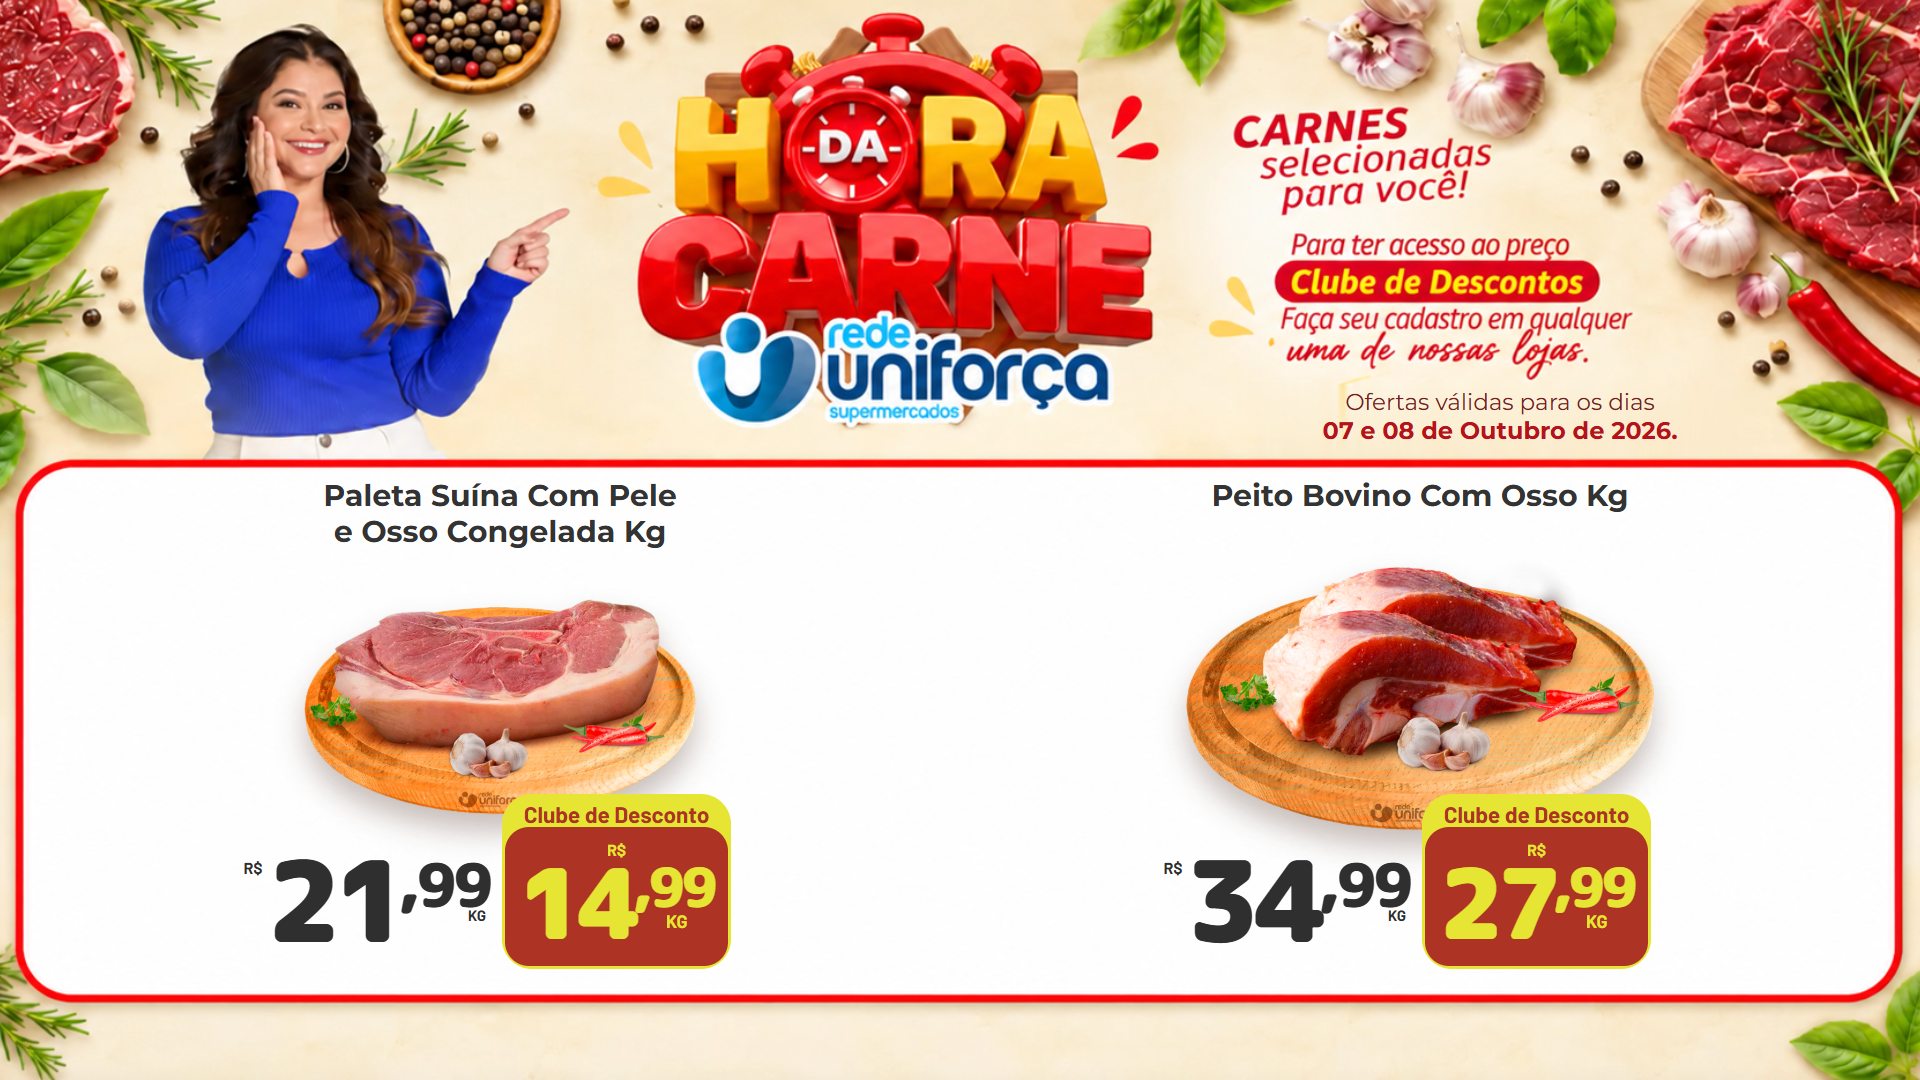
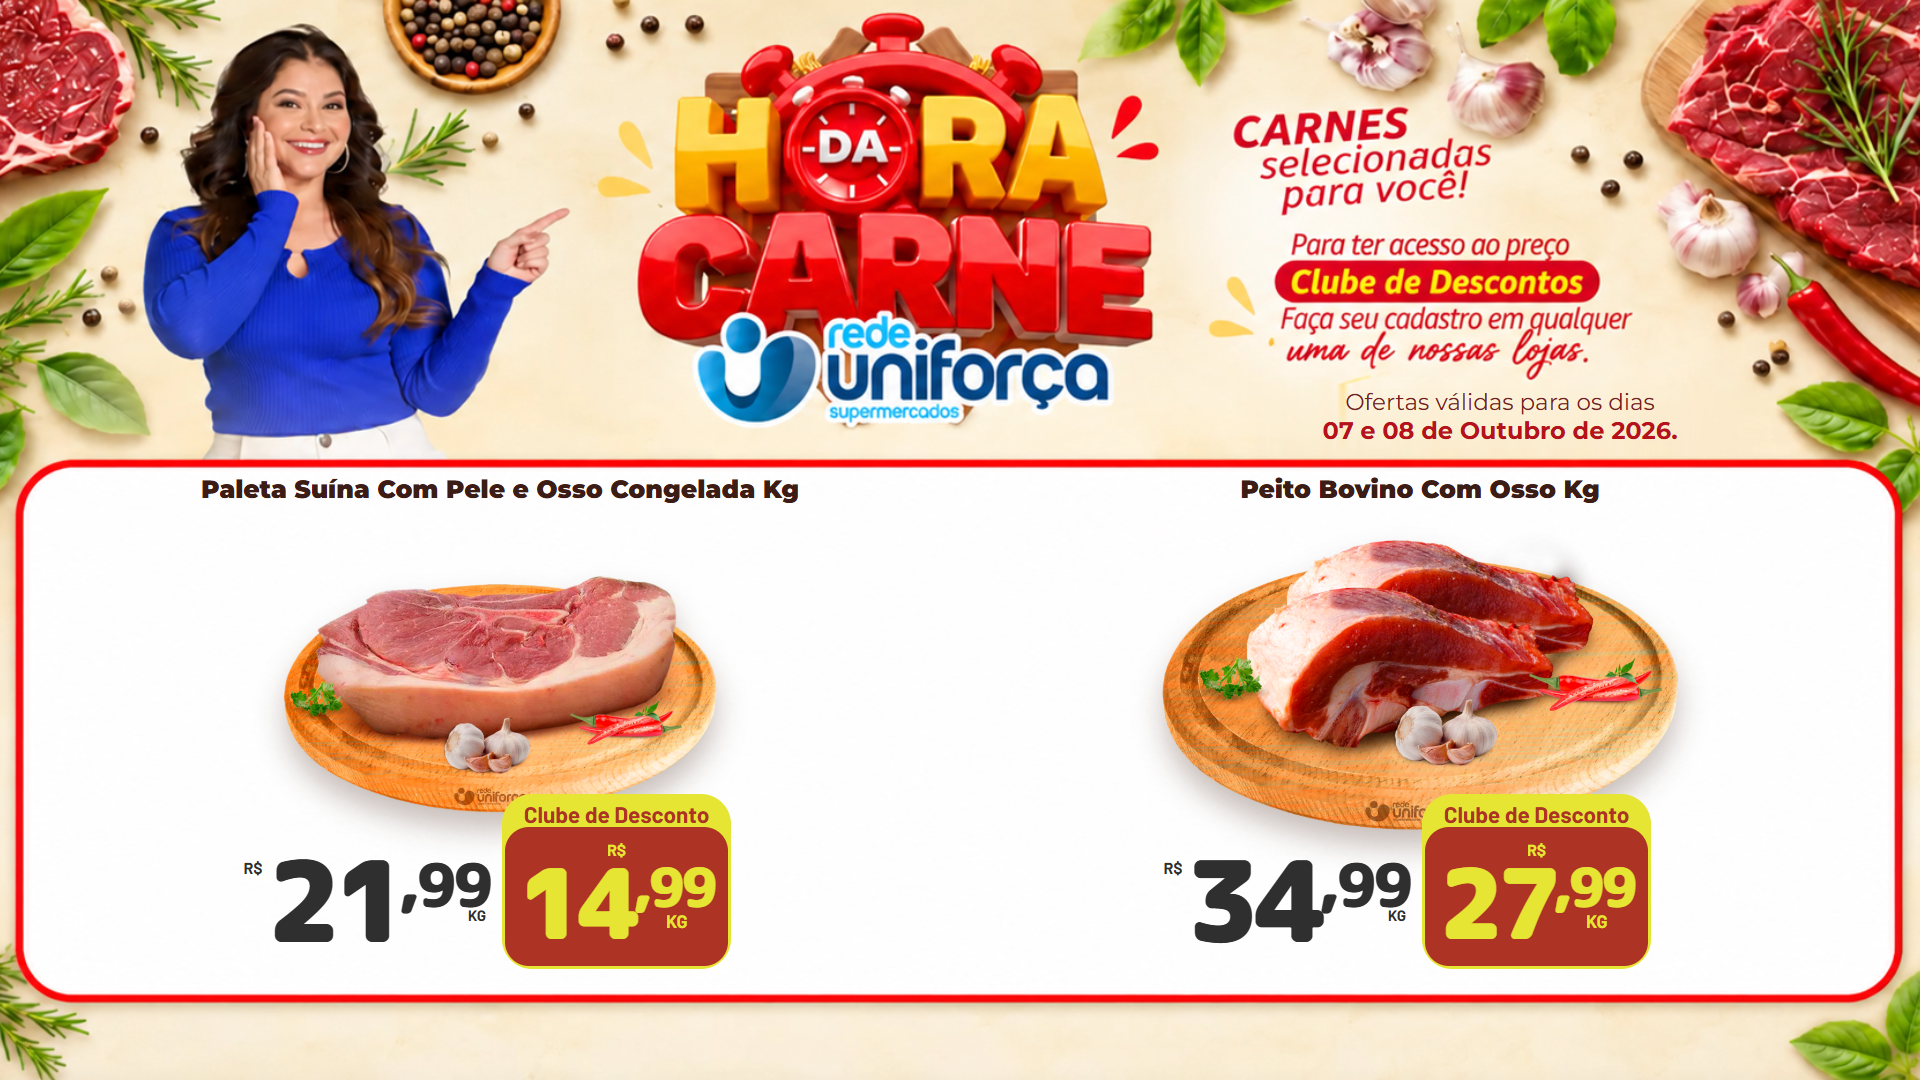
Ofertas: nome com a fonte do original, em até 2 linhas, e produto sempre do mesmo tamanho
No uniforca-hora-da-carne-cartelas:
- o nome volta à fonte e ao peso do Hora da Carne original (Montserrat 900, cor do template), em
  tamanho fixo de 25px, na largura original, com no máximo 2 linhas (cabem os 80 caracteres);
- a foto do produto volta ao tamanho e à posição originais e não desce mais com nomes longos.
O selo e o preço normal no estilo do VT de referência continuam.

Conferido num render com nomes de 24, 55, 64 e 76 caracteres: todos inteiros em até 2 linhas, sem
encostar na foto.

Changed region(s): [[0.5938, 0.4278, 0.875, 0.7639], [0.0938, 0.4278, 0.4062, 0.7639]]

diff --git a/ofertas/templates/uniforca-hora-da-carne-cartelas/index.html b/ofertas/templates/uniforca-hora-da-carne-cartelas/index.html
@@ -850,23 +850,27 @@
       }
       .nome {
         position: absolute;
-        top: 6px;
-        left: 150px;
-        right: 150px;
+        top: 4px;
+        left: 90px;
+        right: 90px;
         text-align: center;
         text-wrap: balance;
-        font-weight: 700;
-        font-size: 30px;
-        line-height: 1.2;
-        color: #333333;
+        font-weight: 900;
+        /* tamanho fixo: até 80 caracteres em no máximo 2 linhas, acima da foto */
+        font-size: 25px;
+        line-height: 1.08;
+        display: -webkit-box;
+        -webkit-box-orient: vertical;
+        -webkit-line-clamp: 2;
+        overflow: hidden;
       }
       /* tábua centralizada no produto (centro x=410); selo alinhado à borda direita da tábua */
       .foto-box {
         position: absolute;
         left: 120px;
-        top: 86px;
+        top: 58px;
         width: 580px;
-        height: 272px;
+        height: 300px;
         display: flex;
         justify-content: center;
         align-items: flex-end;
@@ -1069,8 +1073,6 @@
         const p = document.getElementById("tpl-produto").content.firstElementChild.cloneNode(true);
         const nome = p.querySelector(".nome");
         nome.textContent = campo(n, "nome");
-        // tamanho único (30px), quebrando em linhas equilibradas; nomes de 3 linhas empurram a foto para baixo
-        if (String(campo(n, "nome") || "").length > 60) Object.assign(p.querySelector(".foto-box").style, { top: "122px", height: "236px" });
         const foto = p.querySelector(".foto");
         foto.src = campo(n, "imagem");
         foto.style.width = foto.style.height = (Number(campo(n, "tamanho")) || 1) * 100 + "%";
